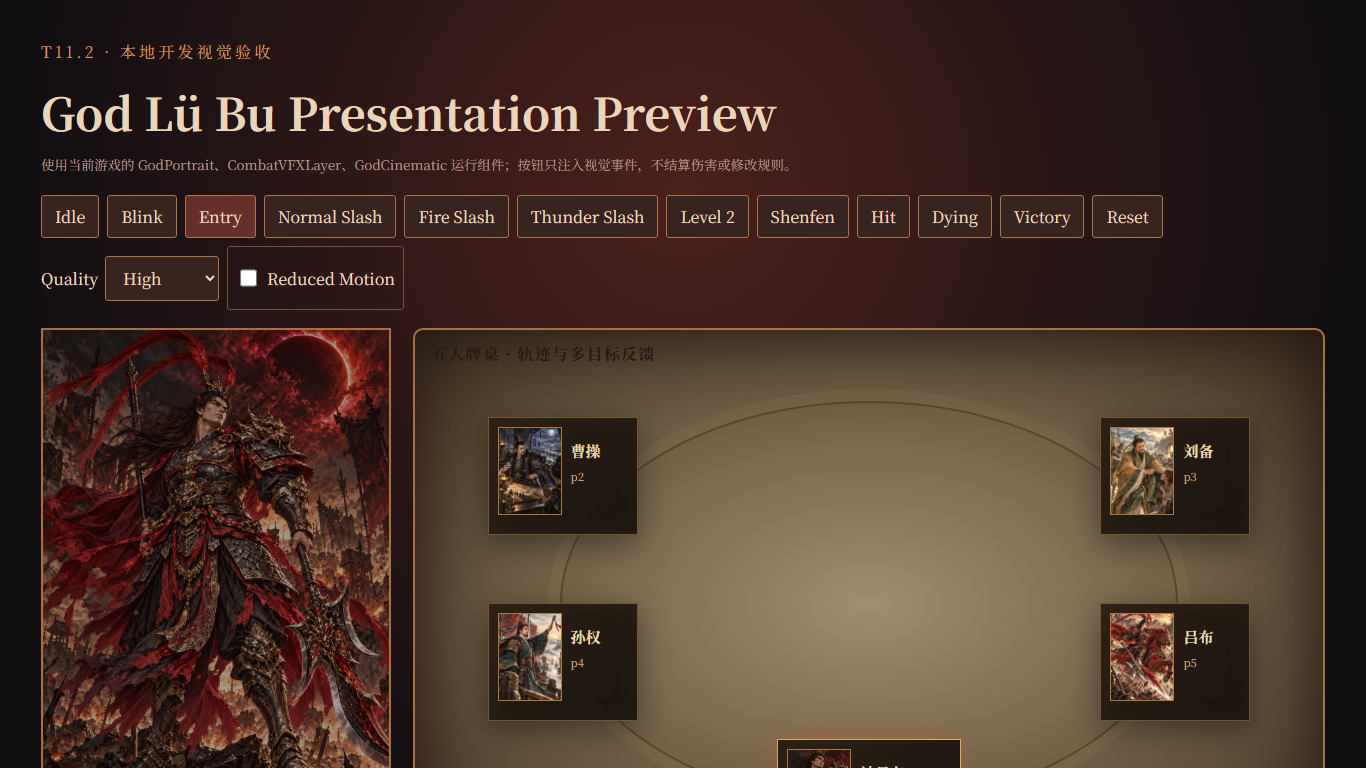
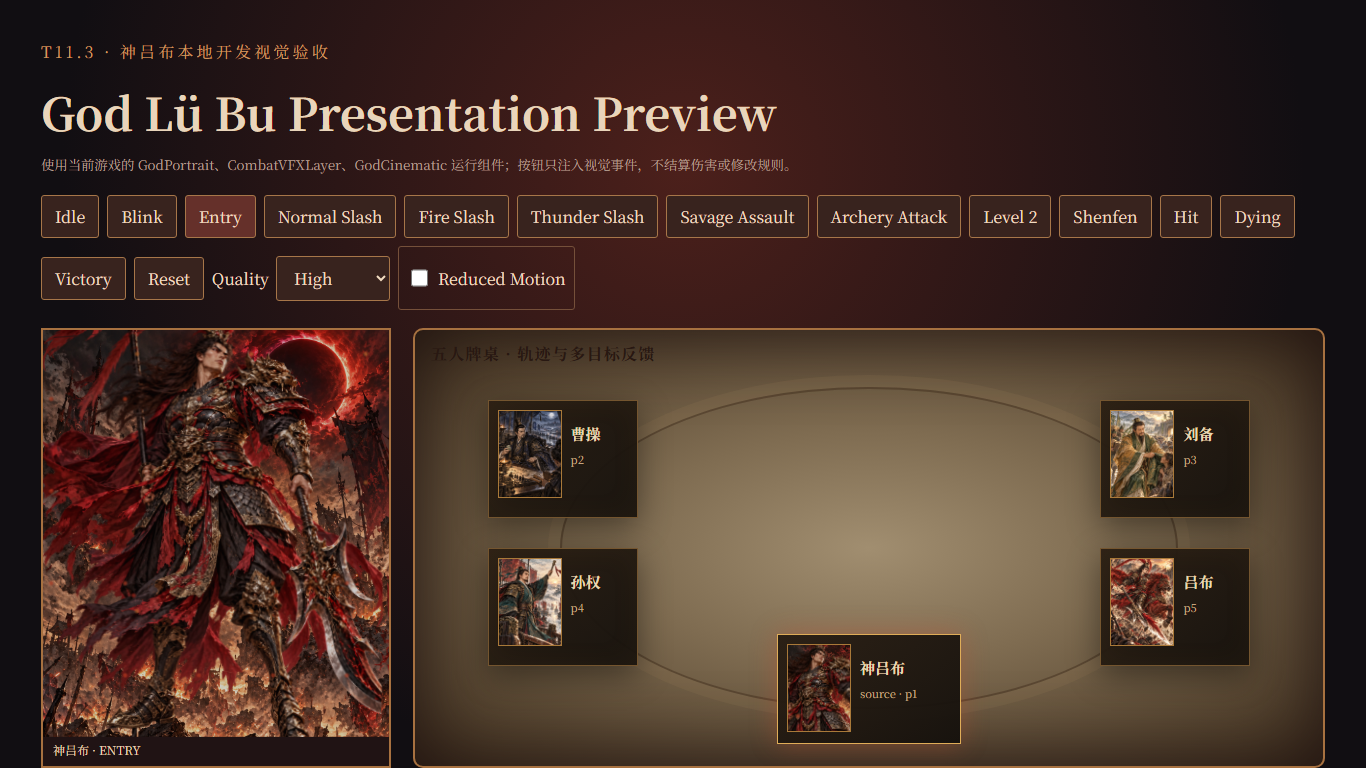
Refine God Lv Bu four core presentations

Changed region(s): [[0.0307, 0.3125, 0.9531, 1.0], [0.4919, 0.25, 0.9531, 0.3125], [0.0922, 0.0625, 0.246, 0.0938]]

diff --git a/web/src/god-lvbu-motion.css b/web/src/god-lvbu-motion.css
@@ -1,0 +1,124 @@
+/* Four core animations. Movement starts in the figure, then travels into hair,
+   cape and halberd. The existing particles remain secondary. */
+.god-portrait-idle .god-body { animation: lvbuStance 6.4s ease-in-out infinite; }
+.god-portrait-idle .god-head { animation: lvbuGaze 6.4s ease-in-out infinite; }
+.god-portrait-idle .god-strike-limb { transform-box: view-box; transform-origin: 680px 385px; animation: lvbuGrip 7.6s ease-in-out infinite; }
+.god-portrait-idle .god-arm, .god-portrait-idle .god-weapon { animation: none; }
+.god-portrait-idle .god-hair-back { animation: lvbuHair 6.4s ease-in-out infinite; }
+.god-portrait-idle .god-hair-front { animation: lvbuFringe 6.4s ease-in-out infinite; }
+.god-portrait-idle .god-cloth-back { animation: lvbuCape 6.4s ease-in-out infinite; }
+.god-portrait-idle .god-cloth-front { animation: lvbuHem 6.4s ease-in-out infinite; }
+@keyframes lvbuStance {
+  0%, 13%, 100% { transform: none; }
+  27% { transform: translate(-9px,-7px) rotate(-.7deg); }
+  39% { transform: translate(-12px,-5px) rotate(-1deg); }
+  55% { transform: translate(7px,3px) rotate(.45deg); }
+  74% { transform: translate(4px,0) rotate(.2deg); }
+}
+@keyframes lvbuGaze {
+  0%, 18%, 100% { transform: none; }
+  32% { transform: translate(-5px,-4px) rotate(-1.9deg); }
+  49% { transform: translate(3px,2px) rotate(1deg); }
+  72% { transform: translate(2px,-1px) rotate(.5deg); }
+}
+@keyframes lvbuGrip {
+  0%, 20%, 100% { transform: none; }
+  34% { transform: translate(-7px,-10px) rotate(-3.8deg); }
+  48% { transform: translate(-9px,-13px) rotate(-4.8deg); }
+  67% { transform: translate(3px,3px) rotate(1deg); }
+  82% { transform: translate(1px,1px) rotate(.3deg); }
+}
+@keyframes lvbuHair {
+  0%, 18%, 100% { transform: none; }
+  37% { transform: translate(-10px,-5px) rotate(-2deg); }
+  59% { transform: translate(8px,3px) rotate(1.3deg); }
+  79% { transform: translate(-3px,1px) rotate(-.4deg); }
+}
+@keyframes lvbuFringe {
+  0%, 20%, 100% { transform: none; }
+  39% { transform: translate(6px,-3px) rotate(1.6deg); }
+  63% { transform: translate(-4px,2px) rotate(-.8deg); }
+}
+@keyframes lvbuCape {
+  0%, 22%, 100% { transform: none; }
+  43% { transform: translate(-15px,-1px) rotate(-2.6deg); }
+  65% { transform: translate(10px,4px) rotate(1.5deg); }
+  83% { transform: translate(-4px,1px) rotate(-.5deg); }
+}
+@keyframes lvbuHem {
+  0%, 25%, 100% { transform: none; }
+  47% { transform: translate(10px,-3px) rotate(1.6deg); }
+  68% { transform: translate(-7px,4px) rotate(-1deg); }
+}
+
+/* Entry: the weight lands first; the weapon and fabric catch up before idle. */
+.god-portrait-entry .god-portrait-puppet { animation: lvbuEntryWeight 1.45s cubic-bezier(.2,.7,.22,1) both; }
+.god-portrait-entry .god-body { animation: none; }
+.god-portrait-entry .god-part:not(.god-body) { animation: none; opacity: 1; }
+.god-portrait-entry .god-head { animation: lvbuEntryHead 1.45s ease-out both !important; }
+.god-portrait-entry .god-strike-limb { animation: lvbuEntryHalberd 1.45s cubic-bezier(.14,.72,.22,1) both; }
+.god-portrait-entry .god-hair-back, .god-portrait-entry .god-hair-front { animation: lvbuEntryHair 1.45s ease-out both !important; }
+.god-portrait-entry .god-cloth-back, .god-portrait-entry .god-cloth-front { animation: lvbuEntryCape 1.45s ease-out both !important; }
+@keyframes lvbuEntryWeight { 0% { opacity: 0; transform: translate(-5%,9%) scale(.95); } 31% { opacity: 1; transform: translate(1%,-2%) scale(1.025); } 57% { transform: translate(0,1%) scale(.997); } 100% { opacity: 1; transform: none; } }
+@keyframes lvbuEntryHead { 0%, 18% { transform: translateY(16px) rotate(-4deg); } 58% { transform: translateY(-4px) rotate(1deg); } 100% { transform: none; } }
+@keyframes lvbuEntryHalberd { 0% { transform: translate(-13px,37px) rotate(-11deg); } 44% { transform: translate(5px,-9px) rotate(2deg); } 72% { transform: translate(-2px,2px) rotate(-.8deg); } 100% { transform: none; } }
+@keyframes lvbuEntryHair { 0%, 21% { transform: translate(-20px,4px) rotate(-4deg); } 59% { transform: translate(9px,-2px) rotate(2deg); } 100% { transform: none; } }
+@keyframes lvbuEntryCape { 0%, 18% { transform: translate(-23px,13px) rotate(-4deg); } 62% { transform: translate(12px,-4px) rotate(2deg); } 100% { transform: none; } }
+
+/* Death: body and weapon lose support, then the kneeling pose settles once. */
+.god-portrait-dying { filter: none; }
+.god-portrait-dying .god-portrait-puppet { opacity: 1; animation: lvbuDeathWeight 1.3s ease-in both; }
+.god-portrait-dying .god-head { animation: lvbuDeathHead 1.3s ease-in both; }
+.god-portrait-dying .god-strike-limb { animation: lvbuDeathWeapon 1.3s ease-in both; }
+.god-portrait-dying .god-portrait-pose { opacity: 0; animation: lvbuDeathPose 1.3s cubic-bezier(.32,.7,.32,1) both; transform-origin: 52% 76%; }
+.god-portrait-dying .god-portrait-embers { animation: lvbuDeathEmbers 1.3s ease-out both; }
+@keyframes lvbuDeathWeight { 0%, 17% { opacity: 1; transform: none; } 39% { opacity: 1; transform: translate(2%,3%) rotate(2deg); } 54% { opacity: 0; transform: translate(2%,7%) rotate(3deg); } 100% { opacity: 0; transform: translate(1%,10%) rotate(4deg); } }
+@keyframes lvbuDeathHead { 0%, 16% { transform: none; } 62%,100% { transform: translate(3px,18px) rotate(6deg); } }
+@keyframes lvbuDeathWeapon { 0%, 21% { transform: none; } 57% { transform: translate(8px,29px) rotate(13deg); } 100% { transform: translate(11px,45px) rotate(18deg); } }
+@keyframes lvbuDeathPose { 0%, 37% { opacity: 0; transform: translate(3%,-4%) scale(1.04); } 68% { opacity: .86; transform: translate(0,2%) scale(1.005); } 100% { opacity: 1; transform: none; } }
+@keyframes lvbuDeathEmbers { to { opacity: 0; } }
+
+/* Attack: rise, strike, short hit stop, recover. The blade appears at the strike. */
+.god-cinematic-standard .god-cinematic-figure { animation: lvbuAttackCamera var(--cinematic-ms) cubic-bezier(.17,.72,.23,1) both; }
+.god-cinematic-standard .god-cinematic-ready { animation: lvbuAttackReady var(--cinematic-ms) linear both; }
+.god-cinematic-standard .god-cinematic-attack-pose { animation: lvbuAttackBody var(--cinematic-ms) cubic-bezier(.16,.74,.25,1) both; }
+.god-cinematic-standard .god-cinematic-figure .god-strike-limb { animation: lvbuAttackRaise var(--cinematic-ms) cubic-bezier(.14,.7,.22,1) both; }
+.god-cinematic-standard .god-cinematic-figure .god-body { animation: lvbuAttackLoad var(--cinematic-ms) ease-in-out both; }
+.god-cinematic-standard .god-cinematic-blade { animation: lvbuAttackEdge var(--cinematic-ms) cubic-bezier(.13,.72,.22,1) both; }
+@keyframes lvbuAttackCamera { 0% { opacity: 0; transform: translate(-10%,2%) scale(.93); } 15% { opacity: 1; transform: none; } 37% { transform: translate(-2%,-2%) scale(1.015); } 51%,57% { transform: translate(7%,1%) scale(1.075); } 62% { transform: translate(6%,0) scale(1.055); } 86% { opacity: 1; transform: translate(2%,0) scale(1.01); } 100% { opacity: 0; transform: none; } }
+@keyframes lvbuAttackReady { 0%,37% { opacity: 1; } 49%,74% { opacity: 0; } 87% { opacity: .9; } 100% { opacity: 0; } }
+@keyframes lvbuAttackBody { 0%,35% { opacity: 0; transform: translate(-9%,4%) scale(.93) rotate(-4deg); } 47% { opacity: 1; transform: translate(1%,-2%) scale(1.04) rotate(0); } 52%,58% { opacity: 1; transform: translate(5%,0) scale(1.08) rotate(1deg); } 68% { opacity: 1; transform: translate(6%,1%) scale(1.07) rotate(1deg); } 86%,100% { opacity: 0; transform: translate(1%,0) scale(1.01); } }
+@keyframes lvbuAttackRaise { 0%,16% { transform: none; } 35% { transform: translate(-17px,-15px) rotate(-13deg); } 48% { transform: translate(22px,-31px) rotate(19deg); } 53%,58% { transform: translate(28px,-27px) rotate(24deg); } 83% { transform: translate(-4px,2px) rotate(-3deg); } 100% { transform: none; } }
+@keyframes lvbuAttackLoad { 0%,17% { transform: none; } 35% { transform: translate(-11px,-10px) rotate(-2deg); } 53%,58% { transform: translate(19px,10px) rotate(3deg); } 84%,100% { transform: none; } }
+@keyframes lvbuAttackEdge { 0%,42% { opacity: 0; transform: translate(-8%,-4%) scale(.35,.8); } 51% { opacity: 1; transform: none; } 57% { opacity: 1; transform: none; } 72%,100% { opacity: 0; transform: translate(8%,2%) scale(1.12,1.02); } }
+
+.god-portrait-reduced .god-portrait-puppet, .god-portrait-reduced .god-part,
+.god-portrait-reduced .god-strike-limb, .god-portrait-reduced .god-portrait-pose,
+.god-cinematic-reduced .god-cinematic-ready, .god-cinematic-reduced .god-cinematic-attack-pose,
+.god-cinematic-reduced .god-cinematic-figure, .god-cinematic-reduced .god-cinematic-blade { animation: none !important; }
+.god-portrait-reduced.god-portrait-dying .god-portrait-pose { opacity: 1; transform: none; }
+@media (prefers-reduced-motion: reduce) {
+  .god-portrait-puppet, .god-portrait-puppet .god-part, .god-portrait-puppet .god-strike-limb,
+  .god-portrait-pose, .god-cinematic-ready, .god-cinematic-attack-pose,
+  .god-cinematic-figure, .god-cinematic-blade { animation: none !important; }
+  .god-portrait-dying .god-portrait-pose { opacity: 1; transform: none; }
+}
+
+/* The blade begins at the moving halberd, and the hit reads as sharp metal. */
+.god-cinematic-standard .god-cinematic-blade { left: 55%; top: 35%; width: 35%; height: 43%; }
+.god-cinematic-standard .god-cinematic-impact { right: 10%; top: 35%; width: min(20vw, 280px); height: min(20vw, 280px); }
+.god-cinematic-standard .god-cinematic-impact::before {
+  inset: 44%; border: 3px solid #fff2cd; border-radius: 0;
+  background: #c46538; box-shadow: 0 0 8px #e6ae71; transform: rotate(45deg);
+}
+.god-cinematic-standard .god-cinematic-impact i {
+  left: 3%; top: calc(50% - 2px); width: 94%; height: 4px; border-radius: 0;
+  background: linear-gradient(90deg, transparent 0%, #b54d2f 25%, #fff5d1 50%, #b54d2f 75%, transparent 100%);
+  clip-path: polygon(0 50%, 48% 0, 100% 50%, 48% 100%);
+}
+.god-cinematic-standard .god-cinematic-impact i:nth-child(1) { transform: rotate(0deg); }
+.god-cinematic-standard .god-cinematic-impact i:nth-child(2) { transform: rotate(47deg); }
+.god-cinematic-standard .god-cinematic-impact i:nth-child(3) { transform: rotate(92deg); }
+.god-cinematic-standard .god-cinematic-impact i:nth-child(4) { transform: rotate(137deg); }
+.god-cinematic-standard .god-cinematic-impact i:nth-child(5) { display: none; }
+

diff --git a/web/src/components/GodPortrait.tsx b/web/src/components/GodPortrait.tsx
@@ -13,6 +13,7 @@ const CLOTH_FRONT = 'M256 470 L609 497 L744 826 L589 1182 L295 1123 L185 797 Z'
 const ARM = 'M625 260 L811 315 L860 622 L778 762 L645 624 L578 374 Z'
 const WEAPON = 'M742 519 L830 532 L850 714 L1004 762 L1024 1536 L779 1536 L686 1007 L717 710 Z'
 const EYES = 'M468 225 L580 214 L588 278 L476 293 Z'
+const STRIKE = ARM + ' ' + WEAPON
 const PARTS = [HEAD, HAIR_BACK, HAIR_FRONT, CLOTH_BACK, CLOTH_FRONT, ARM, WEAPON]
 
 function useNaturalBlink(enabled: boolean) {
@@ -38,8 +39,8 @@ function useNaturalBlink(enabled: boolean) {
   return blinking
 }
 
-export function GodPortrait({ characterId, name, quality, mode = 'idle', cue, forceBlink = false, reducedMotion = false }: {
-  characterId: string; name: string; quality: VfxQuality; mode?: GodPortraitMode; cue?: unknown; forceBlink?: boolean; reducedMotion?: boolean
+export function GodPortrait({ characterId, name, quality, mode = 'idle', cue, forceBlink = false, reducedMotion = false, compact = false }: {
+  characterId: string; name: string; quality: VfxQuality; mode?: GodPortraitMode; cue?: unknown; forceBlink?: boolean; reducedMotion?: boolean; compact?: boolean
 }) {
   const ids = useId().replace(/:/g, '')
   const [visibleMode, setVisibleMode] = useState(mode)
@@ -54,35 +55,37 @@ export function GodPortrait({ characterId, name, quality, mode = 'idle', cue, fo
   const blink = useNaturalBlink(characterId === 'forest_god_lvbu' && quality !== 'low' && visibleMode === 'idle' && !reducedMotion)
   if (characterId !== 'forest_god_lvbu') return null
   if (quality === 'low') return <img className="god-portrait-static" src={LU_BU + (visibleMode === 'hit' || visibleMode === 'dying' || visibleMode === 'victory' ? visibleMode + '.png' : 'portrait.png')} alt={name} />
-  const imageName = (name: string) => LU_BU + name + (quality === 'medium' ? '_medium.webp' : '.png')
+  const imageName = (name: string) => LU_BU + name + (quality === 'medium' && name === 'background' ? '_medium.webp' : '.png')
   const body = imageName('body')
   const clip = (part: string) => 'url(#' + ids + '-' + part + ')'
-  return <div className={'god-portrait god-portrait-' + visibleMode + ' god-portrait-' + quality + (reducedMotion ? ' god-portrait-reduced' : '')} role="img" aria-label={name}>
+  return <div className={'god-portrait god-portrait-' + visibleMode + ' god-portrait-' + quality + (reducedMotion ? ' god-portrait-reduced' : '') + (compact ? ' god-portrait-compact' : '')} role="img" aria-label={name}>
     <img className="god-portrait-background" src={imageName('background')} alt="" />
     <svg key={motionKey} className="god-portrait-puppet" viewBox="0 0 1024 1536" preserveAspectRatio="xMidYMid slice" aria-hidden="true">
       <defs>
         <mask id={ids + '-body-mask'} maskUnits="userSpaceOnUse" x="0" y="0" width="1024" height="1536">
           <rect width="1024" height="1536" fill="white" />
-          {PARTS.map((path, index) => <path key={index} d={path} fill="black" />)}
+          {(compact ? [HEAD, ARM, WEAPON] : PARTS).map((path, index) => <path key={index} d={path} fill="black" />)}
         </mask>
         {[
           ['head', HEAD], ['hair-back', HAIR_BACK], ['hair-front', HAIR_FRONT],
           ['cloth-back', CLOTH_BACK], ['cloth-front', CLOTH_FRONT],
-          ['arm', ARM], ['weapon', WEAPON], ['eyes', EYES],
+          ['arm', ARM], ['weapon', WEAPON], ['strike', STRIKE], ['eyes', EYES],
         ].map(([part, path]) => <clipPath id={ids + '-' + part} key={part}><path d={path} /></clipPath>)}
       </defs>
-      <g className="god-part god-hair-back" clipPath={clip('hair-back')}><image href={body} width="1024" height="1536" /></g>
-      <g className="god-part god-cloth-back" clipPath={clip('cloth-back')}><image href={body} width="1024" height="1536" /></g>
-      <g className="god-part god-body"><image href={body} width="1024" height="1536" /></g>
+      {!compact && <g className="god-part god-hair-back" clipPath={clip('hair-back')}><image href={body} width="1024" height="1536" /></g>}
+      {!compact && <g className="god-part god-cloth-back" clipPath={clip('cloth-back')}><image href={body} width="1024" height="1536" /></g>}
+      <g className="god-part god-body" mask={'url(#' + ids + '-body-mask)'}><image href={body} width="1024" height="1536" /></g>
       <g className="god-part god-head" clipPath={clip('head')}><image href={body} width="1024" height="1536" />
         <image className={'god-blink-frame' + (blink || forceBlink ? ' visible' : '')} href={imageName('blink')} width="1024" height="1536" clipPath={clip('eyes')} />
       </g>
-      <g className="god-part god-hair-front" clipPath={clip('hair-front')}><image href={body} width="1024" height="1536" /></g>
+      {!compact && <g className="god-part god-hair-front" clipPath={clip('hair-front')}><image href={body} width="1024" height="1536" /></g>}
       <g className="god-strike-limb">
-        <g className="god-part god-arm" clipPath={clip('arm')}><image href={body} width="1024" height="1536" /></g>
-        <g className="god-part god-weapon" clipPath={clip('weapon')}><image href={body} width="1024" height="1536" /></g>
+        {compact ? <g className="god-part god-strike" clipPath={clip('strike')}><image href={body} width="1024" height="1536" /></g> : <>
+          <g className="god-part god-arm" clipPath={clip('arm')}><image href={body} width="1024" height="1536" /></g>
+          <g className="god-part god-weapon" clipPath={clip('weapon')}><image href={body} width="1024" height="1536" /></g>
+        </>}
       </g>
-      <g className="god-part god-cloth-front" clipPath={clip('cloth-front')}><image href={body} width="1024" height="1536" /></g>
+      {!compact && <g className="god-part god-cloth-front" clipPath={clip('cloth-front')}><image href={body} width="1024" height="1536" /></g>}
     </svg>
     {(['attack', 'hit', 'dying', 'victory'] as const).includes(visibleMode as 'attack' | 'hit' | 'dying' | 'victory') &&
       <img className="god-portrait-pose" src={imageName(visibleMode === 'attack' ? 'attack_close' : visibleMode)} alt="" />}

diff --git a/web/src/vfx/CombatVFXRuntime.ts b/web/src/vfx/CombatVFXRuntime.ts
@@ -21,6 +21,7 @@ export class CombatVFXRuntime {
   private observer: ResizeObserver | null = null
   private raf = 0
   private hidden = document.hidden
+  private paused = false
   private motionQuery = matchMedia('(prefers-reduced-motion: reduce)')
   private reduced = this.motionQuery.matches
   private reducedOverride: boolean | null = null
@@ -101,8 +102,15 @@ export class CombatVFXRuntime {
 
   setQuality(value: VfxQuality) { this.quality = value; this.resize() }
 
+  setPaused(value: boolean) {
+    if (this.paused === value) return
+    this.paused = value
+    if (value) { cancelAnimationFrame(this.raf); this.raf = 0; this.effects.length = 0; this.ctx?.clearRect(0, 0, this.width, this.height) }
+    else this.ensureFrame()
+  }
+
   trigger(kind: Effect['kind'], sourceId: string, targetId: string, color = '#f2b858', style?: string) {
-    if (this.hidden || !this.ctx) return
+    if (this.hidden || this.paused || !this.ctx) return
     const to = this.anchor(targetId)
     if (!to) return
     const from = this.anchor(sourceId) ?? to
@@ -124,13 +132,13 @@ export class CombatVFXRuntime {
   }
 
   private ensureFrame() {
-    if (!this.raf && !this.hidden && this.ctx && (this.effects.length || this.beamPoints.length)) this.raf = requestAnimationFrame(this.frame)
+    if (!this.raf && !this.hidden && !this.paused && this.ctx && (this.effects.length || this.beamPoints.length)) this.raf = requestAnimationFrame(this.frame)
   }
 
   private frame = (now: number) => {
     this.raf = 0
     const ctx = this.ctx
-    if (!ctx || this.hidden) return
+    if (!ctx || this.hidden || this.paused) return
     ctx.clearRect(0, 0, this.width, this.height)
     const beamColor = this.beamMode === 'attack' ? '#f0804b' : this.beamMode === 'protect' ? '#78dfe4' : '#e8bb69'
     for (const to of this.beamPoints) {

diff --git a/web/src/components/GodCinematic.tsx b/web/src/components/GodCinematic.tsx
@@ -44,10 +44,10 @@ export function GodCinematic({ cue, quality, reducedMotion, onComplete }: {
     <div className="god-cinematic-stage">
       <div className="god-cinematic-backdrop" />
       {cue.level === 3 && <img className="god-cinematic-crest" src={asset('shenfen')} alt="" />}
-      {cue.level >= 2 && <div className="god-cinematic-war-spirit" aria-hidden="true"><img src={asset('attack')} alt="" /></div>}
+      {cue.level >= 2 && <div className="god-cinematic-war-spirit" aria-hidden="true"><img src={asset(quality === 'low' ? 'attack' : 'attack_cutout')} alt="" /></div>}
       <div className="god-cinematic-figure">
-        <div className="god-cinematic-ready">{quality === 'high' ? <GodPortrait characterId="forest_god_lvbu" name="神吕布" quality="high" mode="idle" cue={cue.id} reducedMotion={reduced} /> : <img className="god-cinematic-ready-image" src={asset('body')} alt="" />}</div>
-        <img className="god-cinematic-attack-pose" src={asset('attack')} alt="" />
+        <div className="god-cinematic-ready">{quality === 'low' ? <img className="god-cinematic-ready-image" src={asset('body')} alt="" /> : <GodPortrait characterId="forest_god_lvbu" name="神吕布" quality="high" mode="idle" cue={cue.id} reducedMotion={reduced} compact={quality === 'medium'} />}</div>
+        <img className="god-cinematic-attack-pose" src={asset(quality === 'low' ? 'attack' : 'attack_cutout')} alt="" />
       </div>
       <svg className="god-cinematic-blade" viewBox="0 0 1600 700" preserveAspectRatio="none" aria-hidden="true">
         <path className="god-cinematic-blade-outer" d="M 95 590 L 420 360 L 960 158 L 1510 90" />

diff --git a/web/e2e/t11_god_idle.spec.ts b/web/e2e/t11_god_idle.spec.ts
@@ -4,11 +4,14 @@ test('Lu Bu idle moves character layers and blinks naturally', async ({ page }) 
   await page.clock.install()
   await page.addInitScript(() => { Math.random = () => 0 })
   await page.goto('/t11/god-lvbu-preview')
-  const portrait = page.locator('.god-showcase-large')
-  for (const part of ['body', 'head', 'hair-back', 'hair-front', 'cloth-back', 'cloth-front', 'arm', 'weapon']) {
+  const portrait = page.locator('.god-preview-hero .god-portrait')
+  for (const part of ['body', 'head', 'hair-back', 'hair-front', 'cloth-back', 'cloth-front']) {
     const animation = await portrait.locator('.god-' + part).evaluate((element) => getComputedStyle(element).animationName)
     expect(animation).not.toBe('none')
   }
+  await expect(portrait.locator('.god-body')).toHaveAttribute('mask', /body-mask/)
+  const grip = await portrait.locator('.god-strike-limb').evaluate((element) => getComputedStyle(element).animationName)
+  expect(grip).toContain('lvbuGrip')
   await page.clock.fastForward(2850)
   await expect(portrait.locator('.god-blink-frame.visible')).toHaveCount(1)
   await page.clock.fastForward(120)

diff --git a/web/e2e/t11_lvbu_states.spec.ts b/web/e2e/t11_lvbu_states.spec.ts
@@ -4,15 +4,15 @@ import path from 'node:path'
 
 const review = path.resolve(process.cwd(), '../docs/t11/god_art/review/lvbu_final')
 
-test('God Lu Bu entry hit dying and victory animation state frames', async ({ page }) => {
+test('God Lu Bu entry and death animation state frames', async ({ page }) => {
   fs.mkdirSync(review, { recursive: true })
   await page.setViewportSize({ width: 1366, height: 768 })
   await page.goto('/t11/god-lvbu-preview')
   await expect(page.locator('.god-preview-hero .god-portrait')).toBeVisible()
-  for (const mode of ['entry', 'hit', 'dying', 'victory'] as const) {
+  for (const mode of ['entry', 'dying'] as const) {
     await page.getByRole('button', { name: mode[0].toUpperCase() + mode.slice(1), exact: true }).click()
     await expect(page.locator('.god-preview-hero .god-portrait-' + mode)).toBeVisible()
-    await page.waitForTimeout(mode === 'entry' ? 360 : mode === 'hit' ? 120 : 460)
+    await page.waitForTimeout(mode === 'entry' ? 520 : 870)
     await page.screenshot({ path: path.join(review, mode + '_preview.png') })
   }
 })

diff --git a/web/e2e/t11_lvbu_resolution.spec.ts b/web/e2e/t11_lvbu_resolution.spec.ts
@@ -7,6 +7,7 @@ test('1920x1080 medium cinematic keeps full resolution artwork and sharp vector 
   await page.setViewportSize({ width: 1920, height: 1080 })
   await page.goto('/t11/god-lvbu-preview?t11_capture=1')
   await page.getByLabel('Quality').selectOption('medium')
+  await expect(page.locator('.god-preview-hero .god-body image')).toHaveAttribute('href', /body\.png$/)
   for (const [button, file, frame] of [
     ['Normal Slash', 't11_3_attack_1920.png', 550],
     ['Shenfen', 't11_3_shenfen_1920.png', 1150],
@@ -14,6 +15,7 @@ test('1920x1080 medium cinematic keeps full resolution artwork and sharp vector 
     await page.getByRole('button', { name: button }).click()
     const overlay = page.locator('.god-cinematic')
     await expect(overlay).toBeVisible()
+    await expect(overlay.locator('.god-cinematic-attack-pose')).toHaveAttribute('src', /attack_cutout\.png$/)
     await overlay.locator('img').evaluateAll(async (images) => {
       await Promise.all(images.map((node) => (node as HTMLImageElement).decode()))
     })

diff --git a/web/e2e/t11_god_cinematic.spec.ts b/web/e2e/t11_god_cinematic.spec.ts
@@ -31,14 +31,6 @@ test('Lu Bu five cards share one standard cinematic and three levels render', as
     await page.waitForTimeout(name === 'shenfen' ? 1050 : 460)
     if (['slash', 'level2', 'shenfen'].includes(name))
       await page.screenshot({ path: path.join(review, 'god_lvbu_cinematic_' + name + '.png') })
-    if (name === 'slash') {
-      const drawn = await page.locator('.god-preview-board canvas').evaluate((node) => {
-        const canvas = node as HTMLCanvasElement
-        const pixels = canvas.getContext('2d')?.getImageData(0, 0, canvas.width, canvas.height).data
-        return pixels ? pixels.some((value, index) => index % 4 === 3 && value > 0) : false
-      })
-      expect(drawn).toBe(true)
-    }
     if (await overlay.count()) await page.keyboard.press('Escape')
     await expect(overlay).toHaveCount(0)
   }

diff --git a/web/src/components/CombatVFXLayer.tsx b/web/src/components/CombatVFXLayer.tsx
@@ -39,6 +39,7 @@ export function CombatVFXLayer({ players, targets, mode, events, quality, reduce
     }
   }, [])
   useEffect(() => { runtime.current?.setQuality(quality) }, [quality])
+  useEffect(() => { runtime.current?.setPaused(cinematics.length > 0) }, [cinematics.length])
   useEffect(() => { runtime.current?.setReducedMotion(reducedMotion ?? null) }, [reducedMotion])
   useEffect(() => { runtime.current?.setBeam(targetKey ? targetKey.split('|') : [], mode) }, [targetKey, mode])
   useEffect(() => {

diff --git a/web/src/App.tsx b/web/src/App.tsx
@@ -5,6 +5,7 @@ import { GamePage } from './components/GamePage'
 import { GodShowcase } from './components/GodShowcase'
 import { useGame } from './state/GameContext'
 import './styles.css'
+import './god-lvbu-motion.css'
 
 export default function App() {
   const { state, actions } = useGame()

diff --git a/docs/t11/god_art/review/lvbu_final/T11_3.md b/docs/t11/god_art/review/lvbu_final/T11_3.md
@@ -1,19 +1,20 @@
-# T11.3 神吕布阶段验收
+# 神吕布四项表现阶段验收
 
-状态：**PARTIAL**。本轮修复了 Medium 全屏演出放大低清素材的问题，并让五类牌共用一套 Level 1 戟击。人物待机与动作仍需用户在实际浏览器中判断；1920×1080 下的流畅度尚未在分辨率修复后重新量化，因此不报 PASS。
+状态：**PARTIAL**。本轮只处理神吕布的待机、统一攻击、出场、死亡。实机主观品质与 Medium 流畅度尚未达到可宣布通过的程度。
 
-## 本地查看
+## 当前可看内容
 
-双击项目根目录的 `preview_lvbu.cmd`，会启动本地后端与 Web 前端并打开现有 `/t11/god-lvbu-preview` 验收页。双击 `STOP_PREVIEW.cmd` 关闭本次启动的服务。预览只读取项目现有本地资源，不调用 AI、图像生成或外部 API。若 8000 或 5173 端口已被占用，脚本明确提示且不会重复启动。
+双击项目根目录的 `preview_lvbu.cmd`，即可用已安装的本地依赖启动服务并打开现有验收场景；结束时双击 `STOP_PREVIEW.cmd`。此预览只读取本地资源，不调用 AI、Codex、图像生成或外部 API。端口被占用时脚本提示，不重复启动服务。
 
-页面中的 `Idle`、`Entry`、`Hit`、`Dying`、`Victory` 用于看人物动作。`Normal Slash`、`Fire Slash`、`Thunder Slash`、`Savage Assault`、`Archery Attack` 均播放同一套 Level 1；两个群攻按钮会对四名目标反馈。`Level 2` 为无前强化攻击，`Shenfen` 为 Level 3。`Quality` 切换 High / Medium / Low；`Reduced Motion` 可检查低动态，Esc 可跳过。
+- 待机：应用分层人物遮罩，加入身体重心、视线、持戟手、头发与披风的交错循环。粒子只作辅助。
+- 统一攻击：普通杀、火杀、雷杀、南蛮入侵、万箭齐发共用同一套。人物蓄力、挥戟、顿帧与收势；两个群攻对多个目标复用命中反馈。攻击图只定向生成一次透明抠图版，去掉原有棕色矩形底色，保留原动作和原图。
+- 出场：人物切入、戟势与镜头推进，结束衔接待机。
+- 死亡：由失力转入单膝跪落，移除了站姿残影。
 
-## 分辨率修复与证据
+现有 Level 2 无前攻击与 Level 3 神愤保留，未增加任何按牌种分开的新素材或其他神将内容。
 
-- Canvas backing 尺寸按 CSS 尺寸乘以 DPR 建立，High 上限 2、Medium 上限 1.5；明确启用高质量图像平滑。
-- High 与 Medium 的全屏核心人物、神愤前景使用原尺寸 PNG，Low 才使用缩图。Medium 的神愤减少一层背景残像，保留人物和爆发前景。
-- 删除跨屏粗橙色月牙；统一攻击使用矢量戟锋轨迹，随分辨率保持锐利。
-- 1920×1080、浏览器缩放 100% 的 [统一攻击截图](t11_3_attack_1920.png) 与 [神愤截图](t11_3_shenfen_1920.png)。定向测试验证源图片宽度不小于显示宽度。
-- Web 构建、五类牌共享演出与跳过测试、1920×1080 分辨率测试通过。完整性能回归和主观动作质量验收仍待完成。
+## 画质与验证
 
-项目内 `.venv` 和 `web/node_modules` 已安装时，一键预览无需联网。
+High / Medium 按设备像素比建立 Canvas backing 尺寸，分别上限约 2 / 1.5；Medium 人物也读取原尺寸资源，高清人物与核心效果保持原始尺寸，斩击锋刃由矢量形状绘制。见 [1920×1080 统一攻击](t11_3_attack_1920.png)、[神愤](t11_3_shenfen_1920.png)、[出场](entry_preview.png)、[死亡](dying_preview.png)。待机请在预览中看动态，静态图无法验收循环。
+
+Web 构建通过，六项直接相关的 Playwright 验收通过。1920×1080 Medium 的无界面 Chromium 定向记录位于 `performance_cinematic_1920.json`：最近一次普通攻击 37 FPS、神愤 27 FPS（此前同环境测得 27 / 26 FPS，存在波动）。本机该环境的结果**不满足**“Medium 基本流畅”，也不能替代用户在实际浏览器中的感受。继续零碎调 CSS 收益很低；若实机也有明显卡顿，后续应针对合成层与源素材进行一次明确的性能重构，而不是增加候选图或特效。
